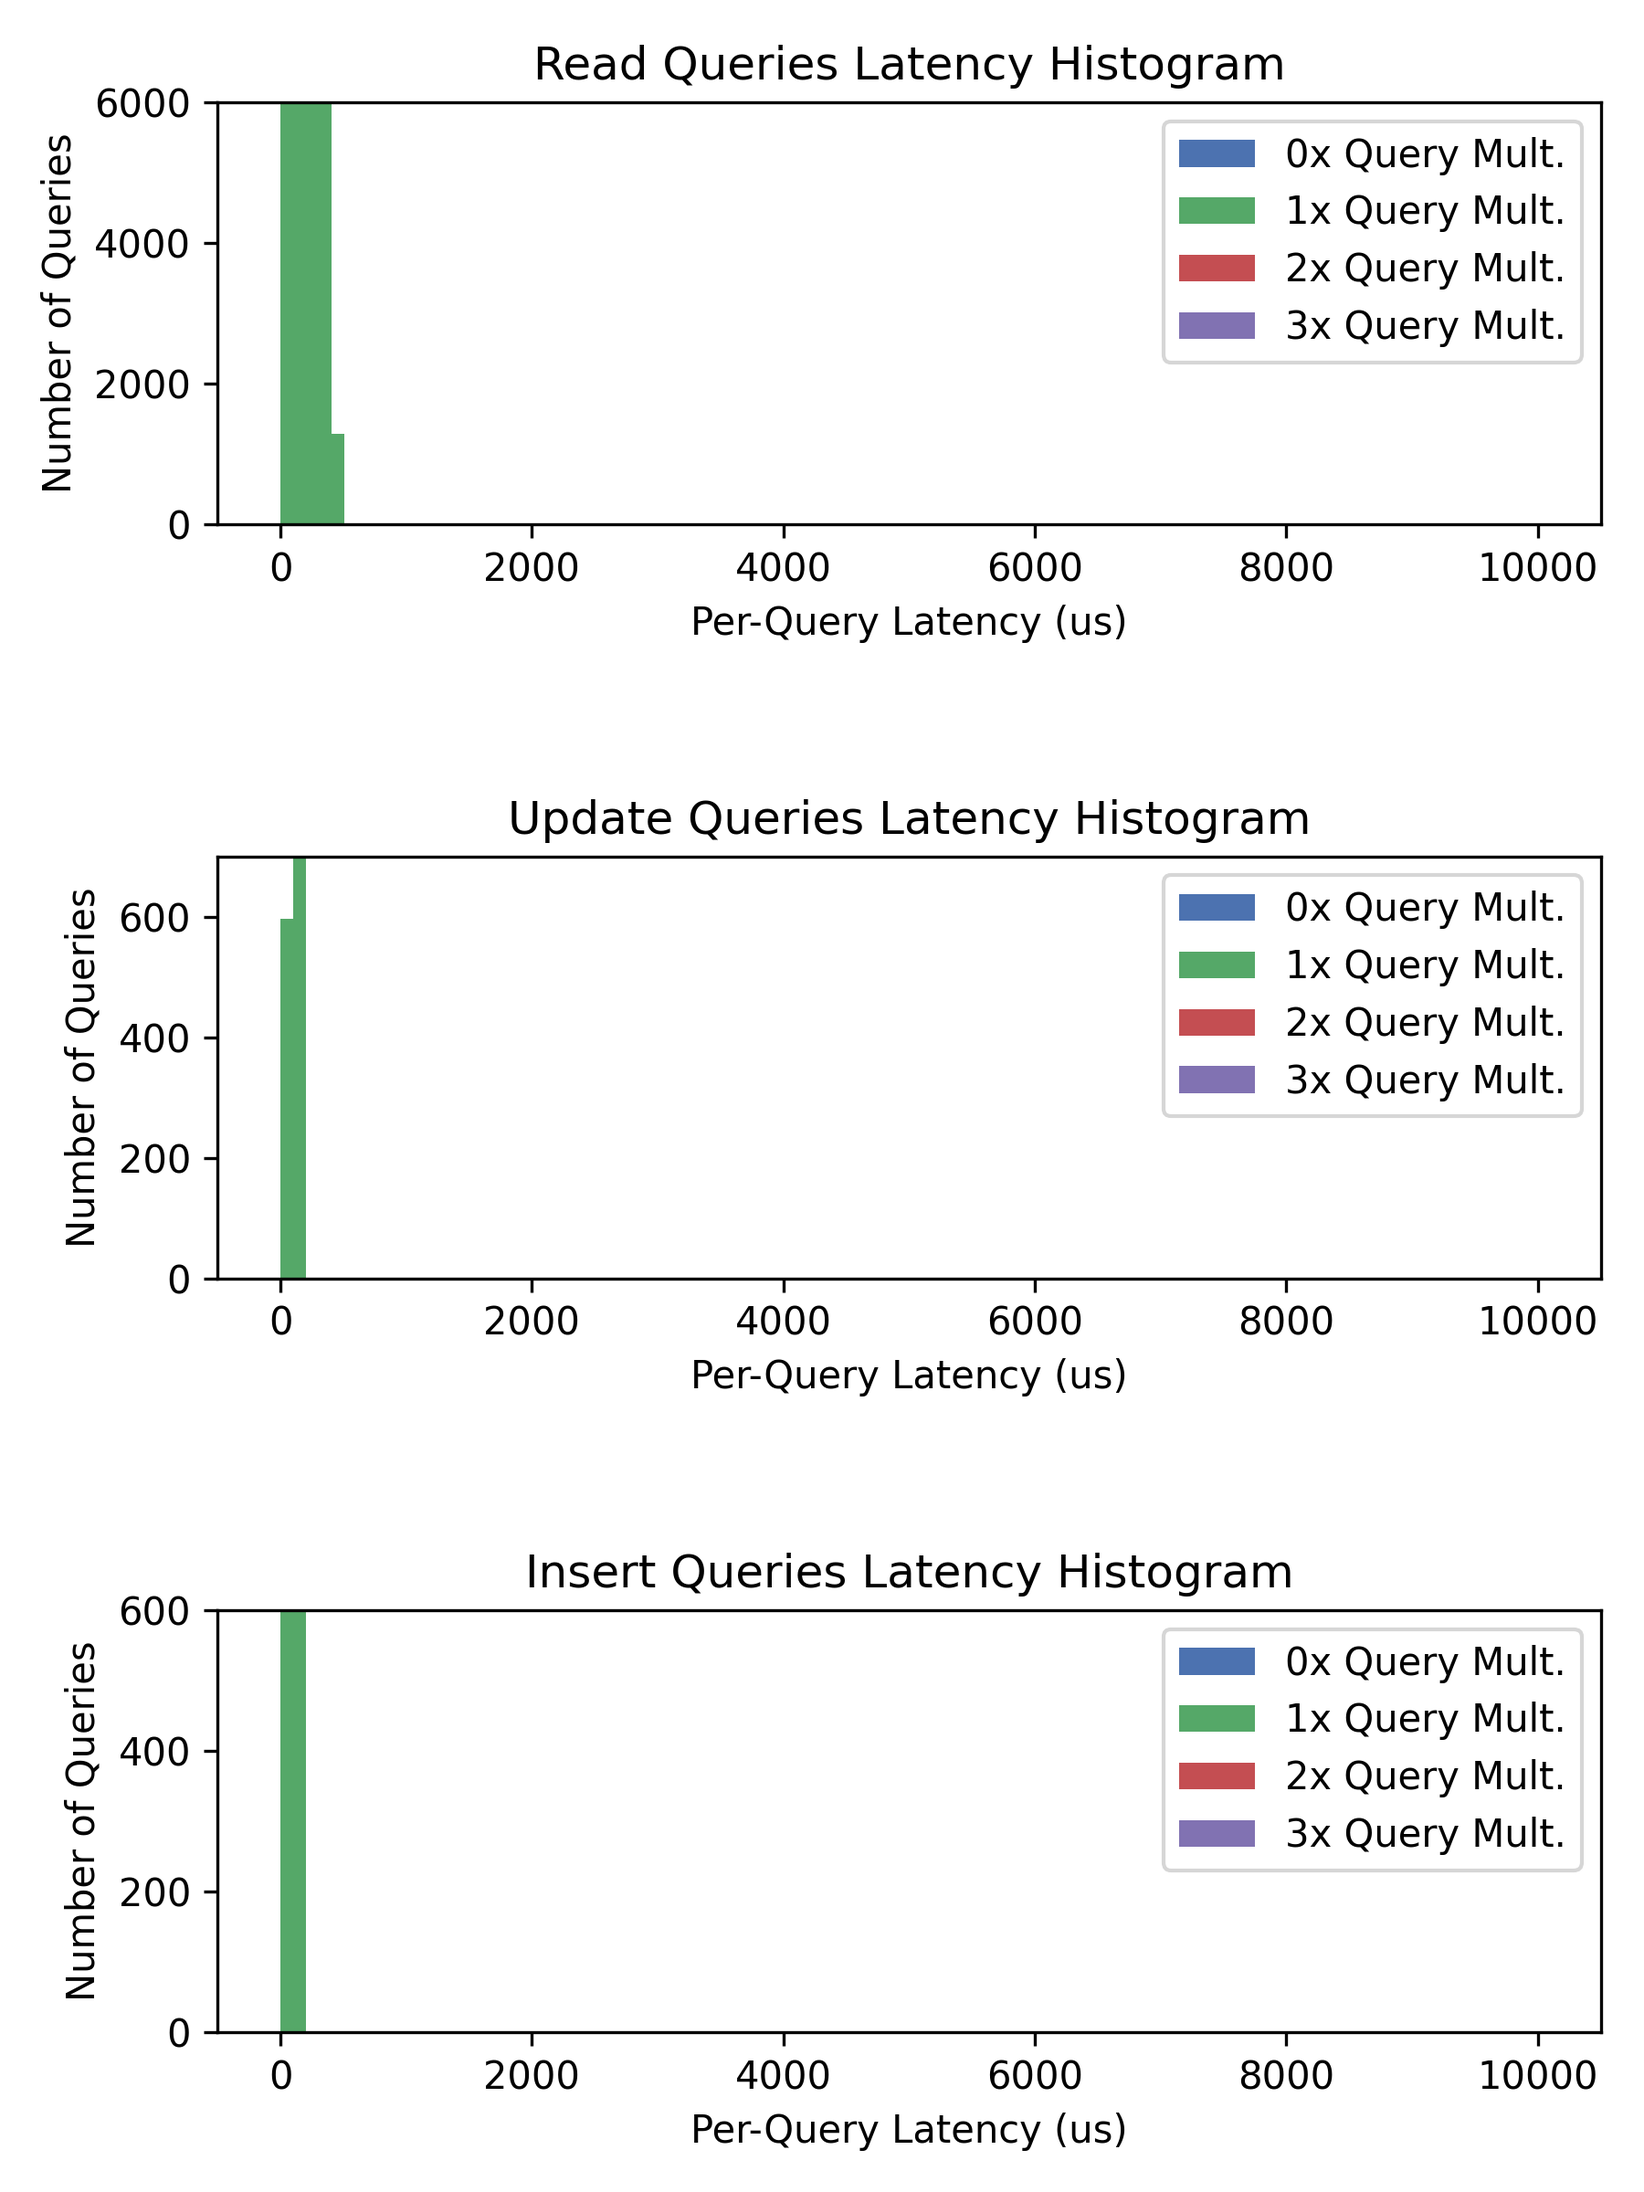
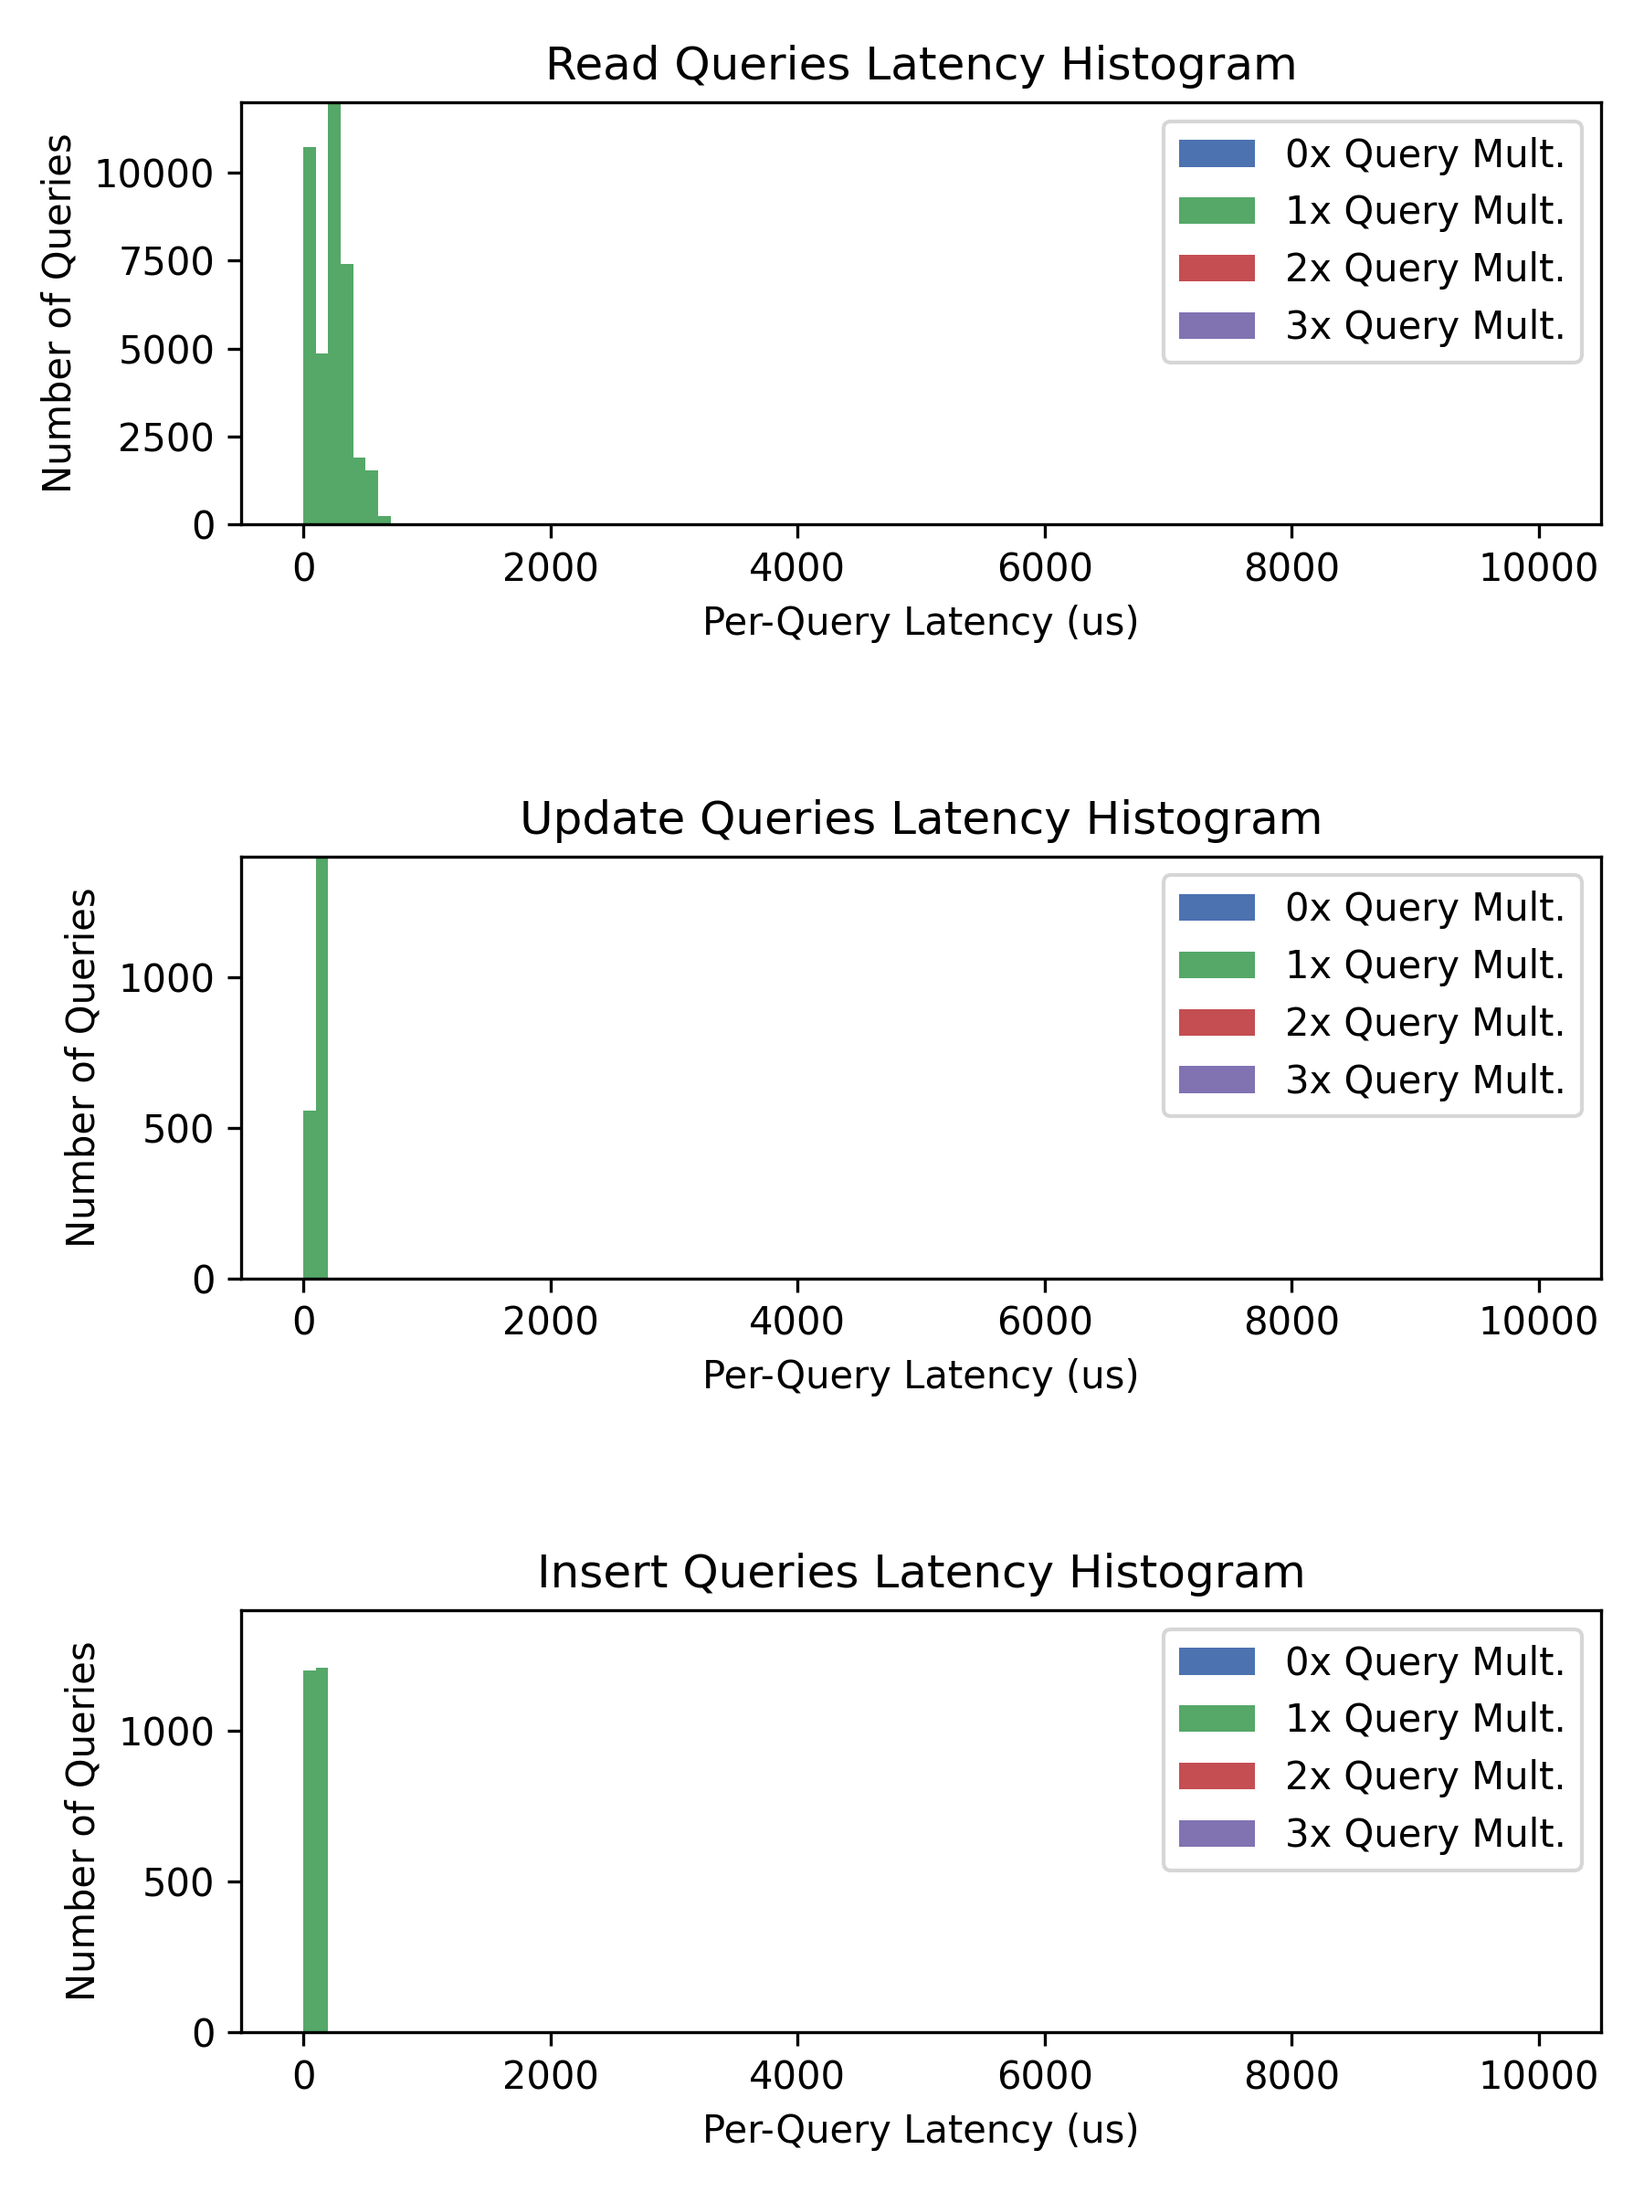
run tests with hashmap lookups

diff --git a/decor/applications/lobsters/microbenchmarks/main.rs b/decor/applications/lobsters/microbenchmarks/main.rs
@@ -267,7 +267,7 @@ fn main() {
     for i in 0..nqueries {
         let user = users[((i % nusers) as usize)];
         let story= stories[((i+1)%nstories) as usize];
-        /*match rng.gen_range(0, 10) {
+        match rng.gen_range(0, 10) {
             0..=5 => queriers::frontpage::query_frontpage(&mut db, Some(user)).unwrap(),
             6 => {
                 queriers::post_story::post_story(&mut db, Some(user), total_stories + 1, "Dummy title".to_string()).unwrap();
@@ -280,9 +280,9 @@ fn main() {
                 total_comments += 1;
             }
             _ => (),
-        }*/
+        }
         //queriers::vote::vote_on_story(&mut db, Some(user), story, true).unwrap();
-        queriers::frontpage::query_frontpage(&mut db, Some(user)).unwrap();
+        //queriers::frontpage::query_frontpage(&mut db, Some(user)).unwrap();
         //queriers::expensive_queries::post_comment(&mut db, Some(user), total_comments + 1, story, None).unwrap();
     }
     let dur = start.elapsed();

diff --git a/decor/src/decor-mem/src/lib.rs b/decor/src/decor-mem/src/lib.rs
@@ -200,10 +200,10 @@ impl<W: io::Write> MysqlShim<W> for Shim {
         }
         let dur = start.elapsed();
         let qtype = stats::get_qtype(query)?;
-        /*if dur.as_micros() > 1000 {
+        if dur.as_micros() > 1000 {
             error!("Long query: {}: {}us", query, dur.as_micros());
         }
-        self.qtrans.record_query_stats(qtype, dur);*/
+        self.qtrans.record_query_stats(qtype, dur);
         res
     }
 }

diff --git a/decor/benchmarks/plot.py b/decor/benchmarks/plot.py
@@ -6,7 +6,7 @@ plt.style.use('seaborn-deep')
 
 tests = ["decor", "shim_only", "shim_parse"]
 names = ["Read", "Update", "Insert", "Other"]
-ybounds = [6000, 700, 600, 600]
+ybounds = [12000, 1400, 1400, 600]
 bins = np.linspace(0, 10000, 100)
 
 for test in tests:
